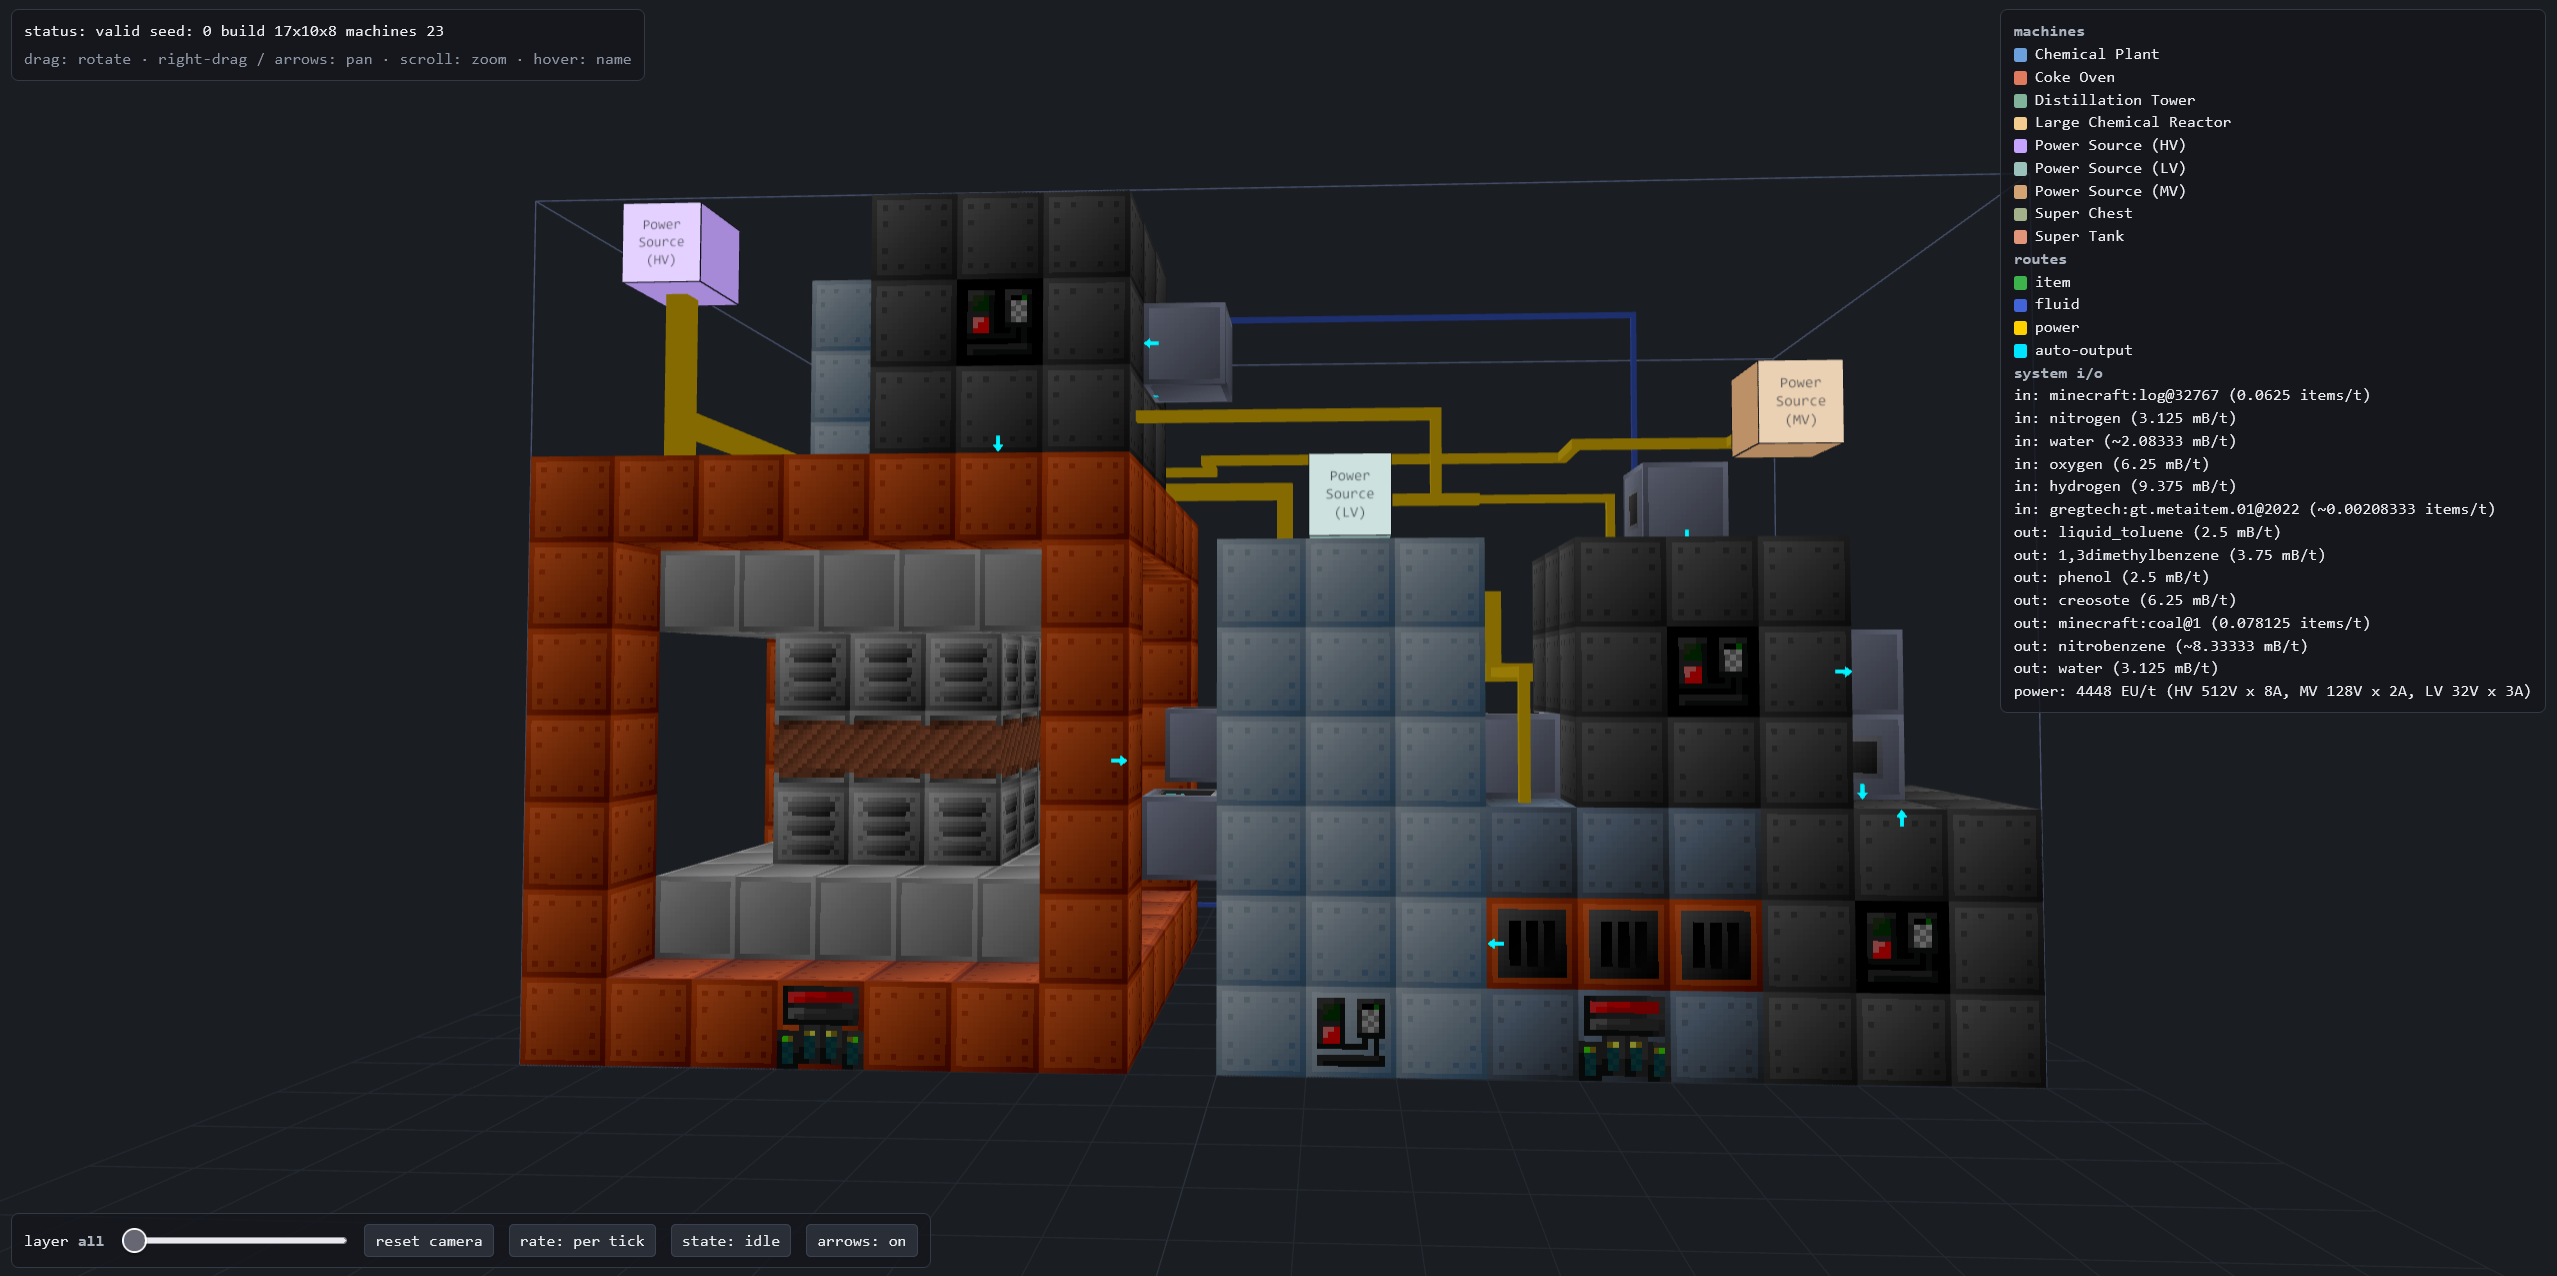
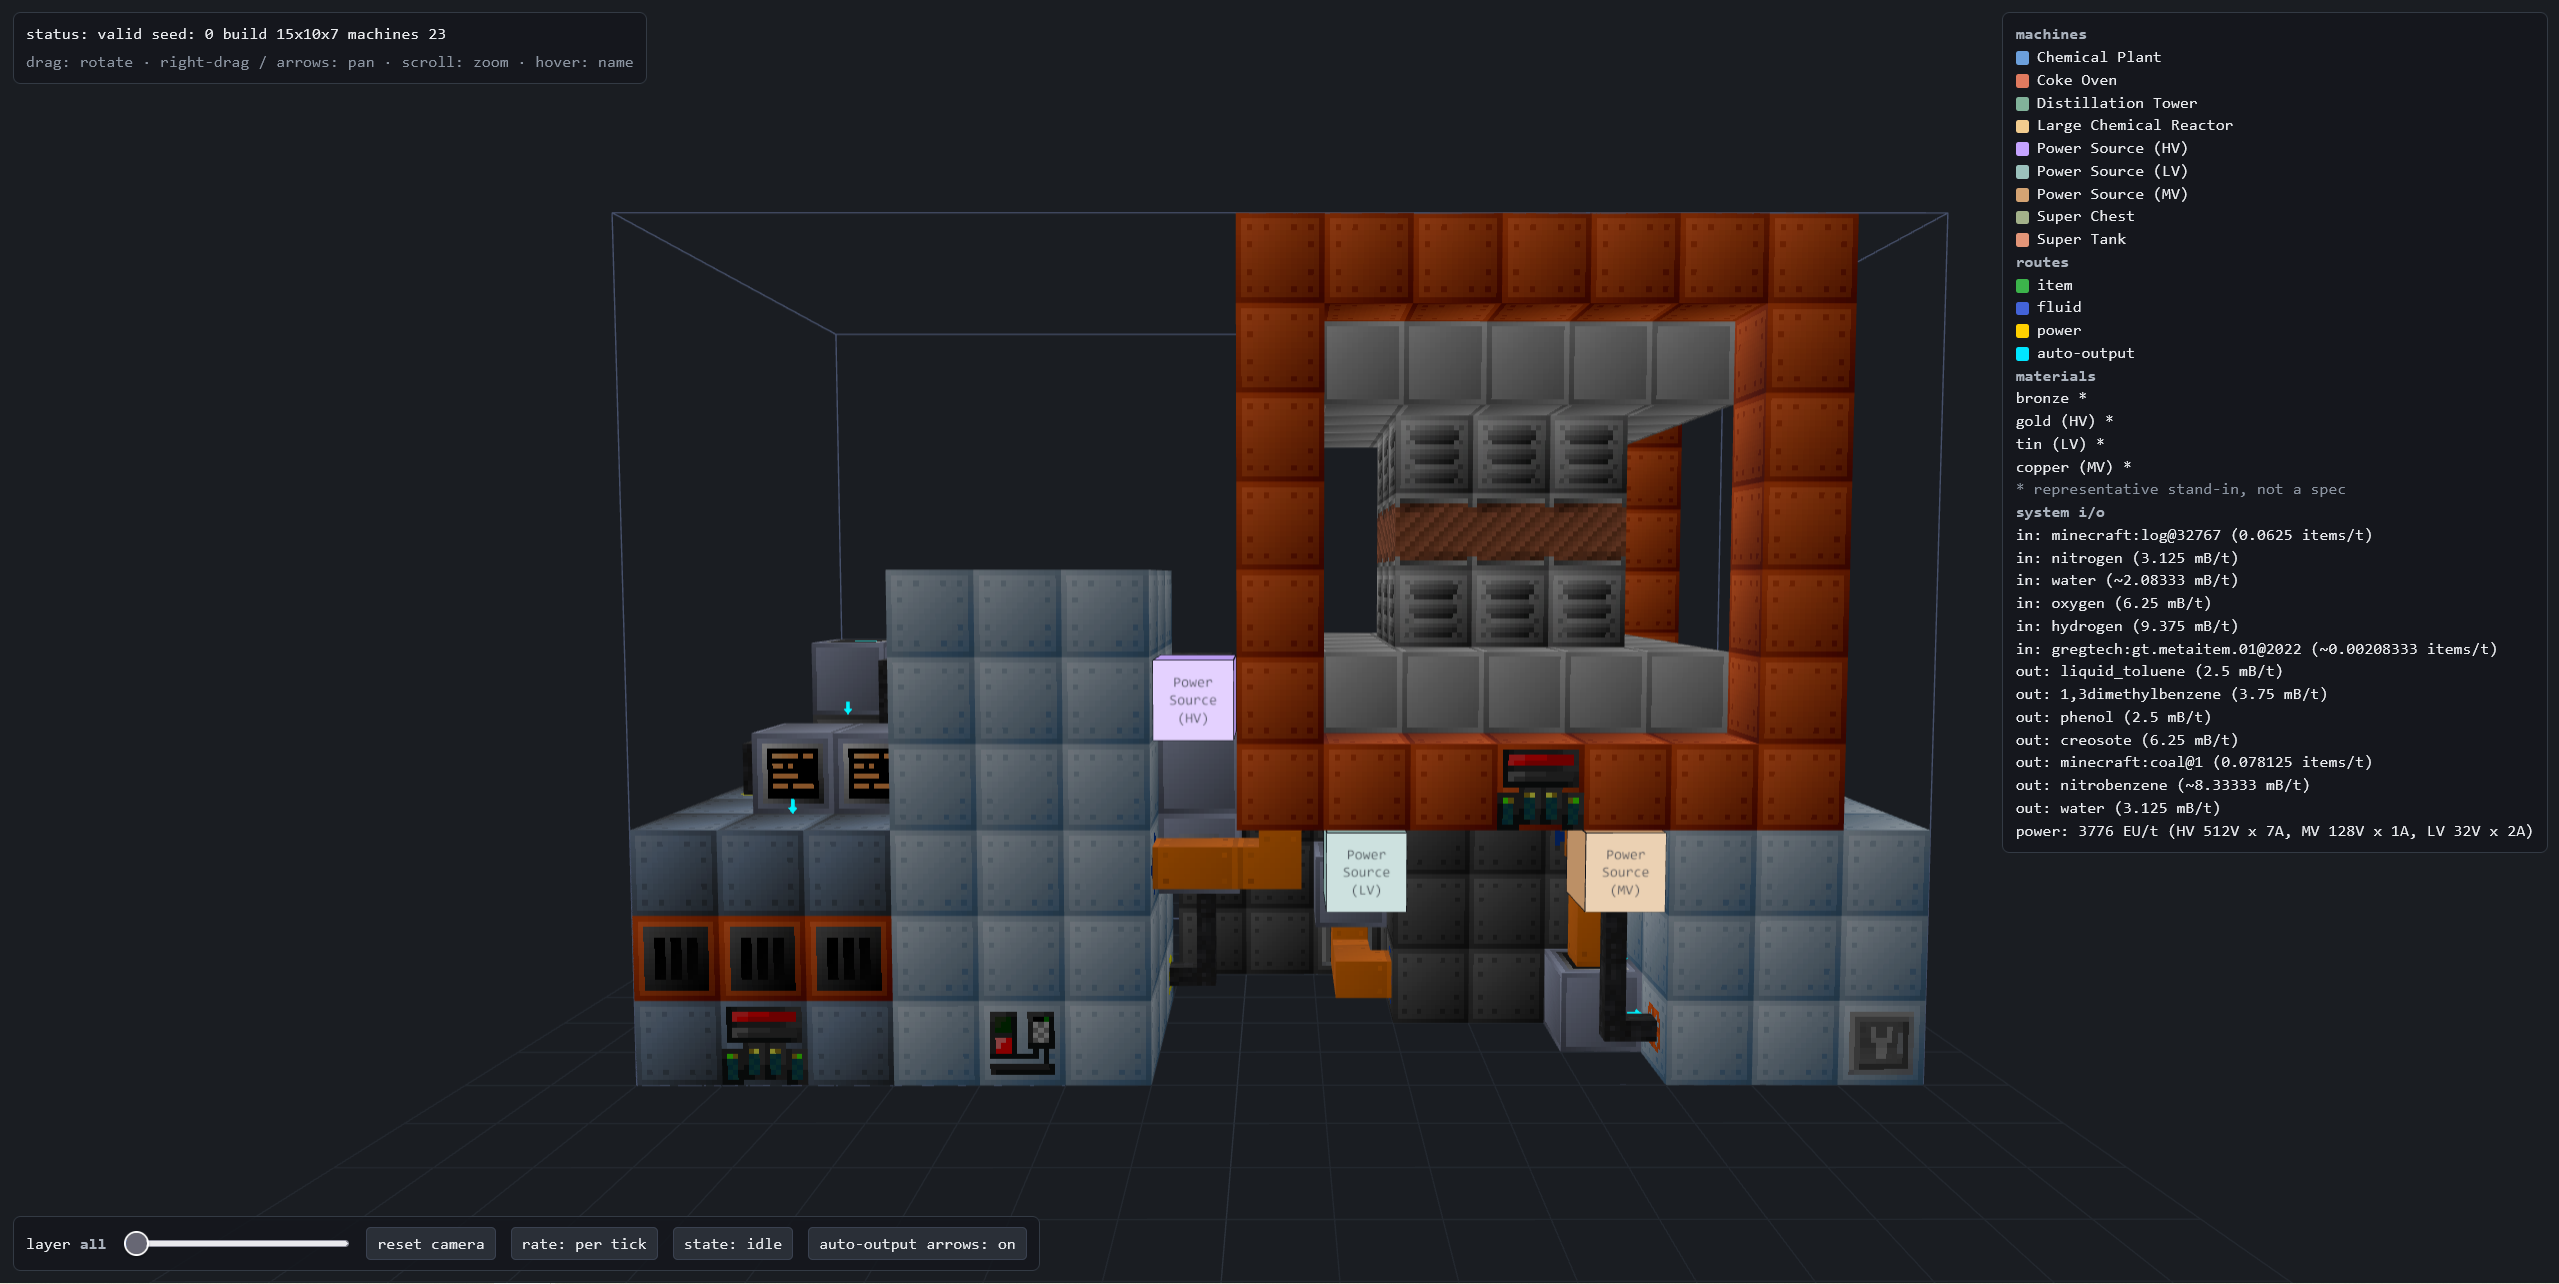
docs: refresh the previewer screenshot in the README
The hero image was taken in #104 and had gone stale in four ways. Two are this
branch: the auto-output arrows on the Coke Oven and Chemical Plant faces are
gone, and the toggle reads "auto-output arrows" rather than "arrows". Two
predate it: the line now solves to a 15x10x7 build where the shot (and the
caption under it) still said 17x10x8, and the legend has gained its materials
block with the representative-stand-in footnote.

Same line and viewport as the original so the two are comparable. The cyan
arrows that remain are all on single-block sources, which is now the only kind
that gets one.

diff --git a/README.md b/README.md
@@ -28,7 +28,7 @@ that into a physical, buildable layout.
 
 ![The three.js previewer: a solved nitrobenzene line in 3D, machines drawn with their real GT block textures, item, fluid and power runs routed between them, and a legend of machines, route types and system I/O.](docs/images/previewer.png)
 
-*The `--preview` viewer on `examples/gtnh-nitrobenzene.json`: 23 machines in a 17x10x8 build,
+*The `--preview` viewer on `examples/gtnh-nitrobenzene.json`: 23 machines in a 15x10x7 build,
 with the shared-amperage power net and the per-tick system I/O the line consumes and produces.*
 
 ## How it works (data flow)
